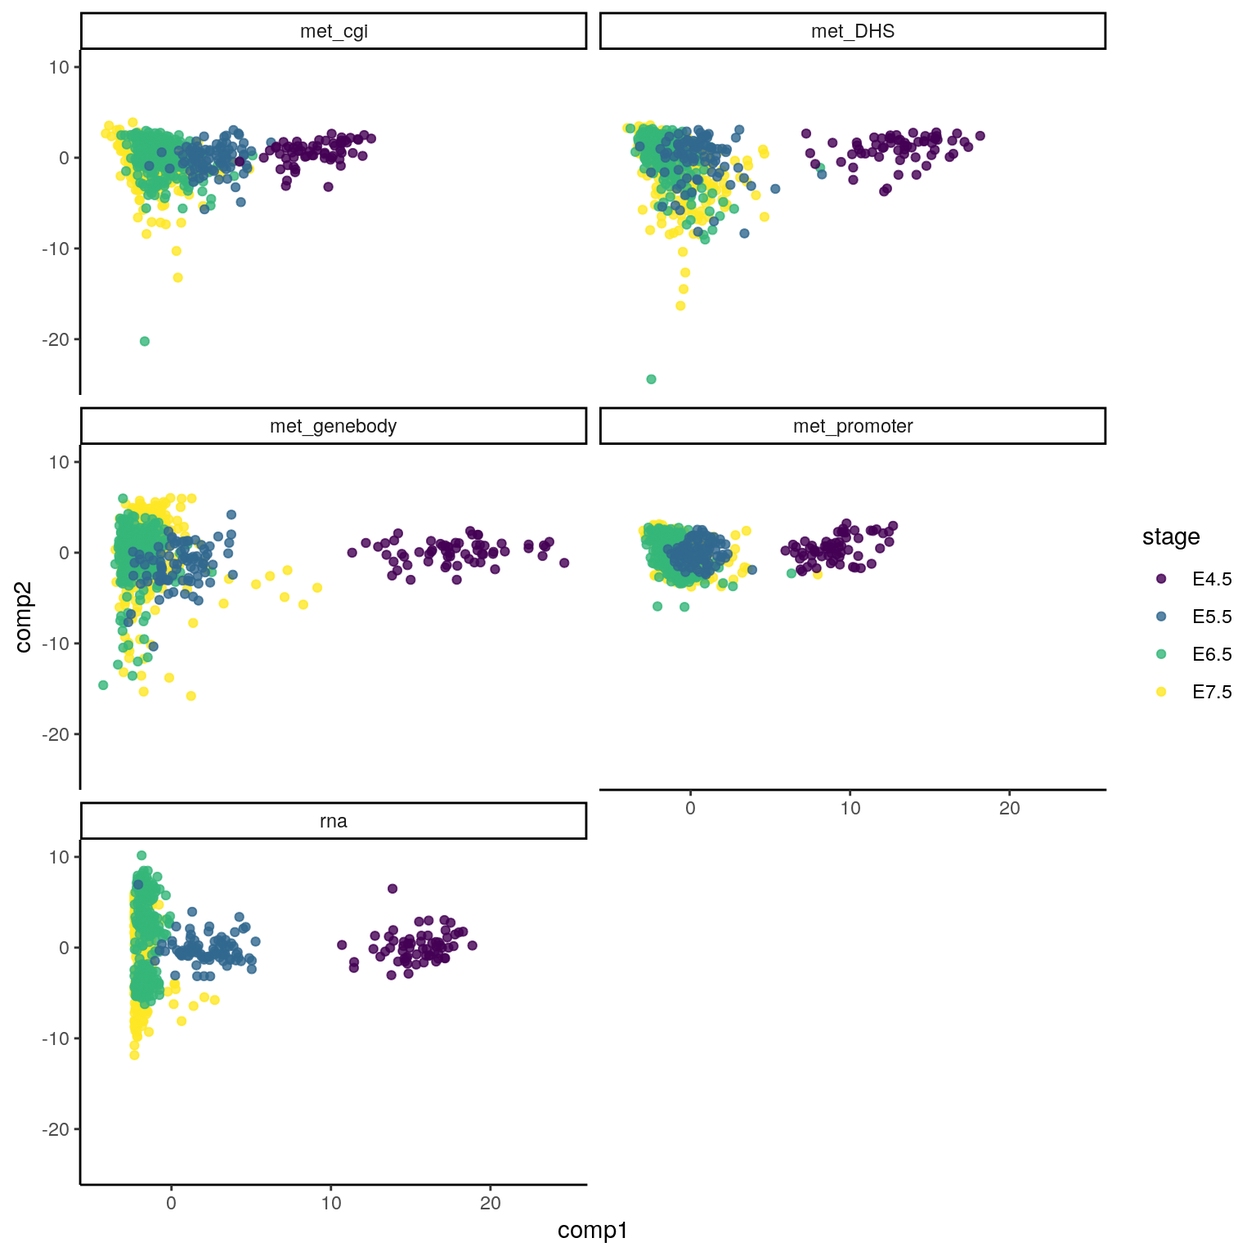
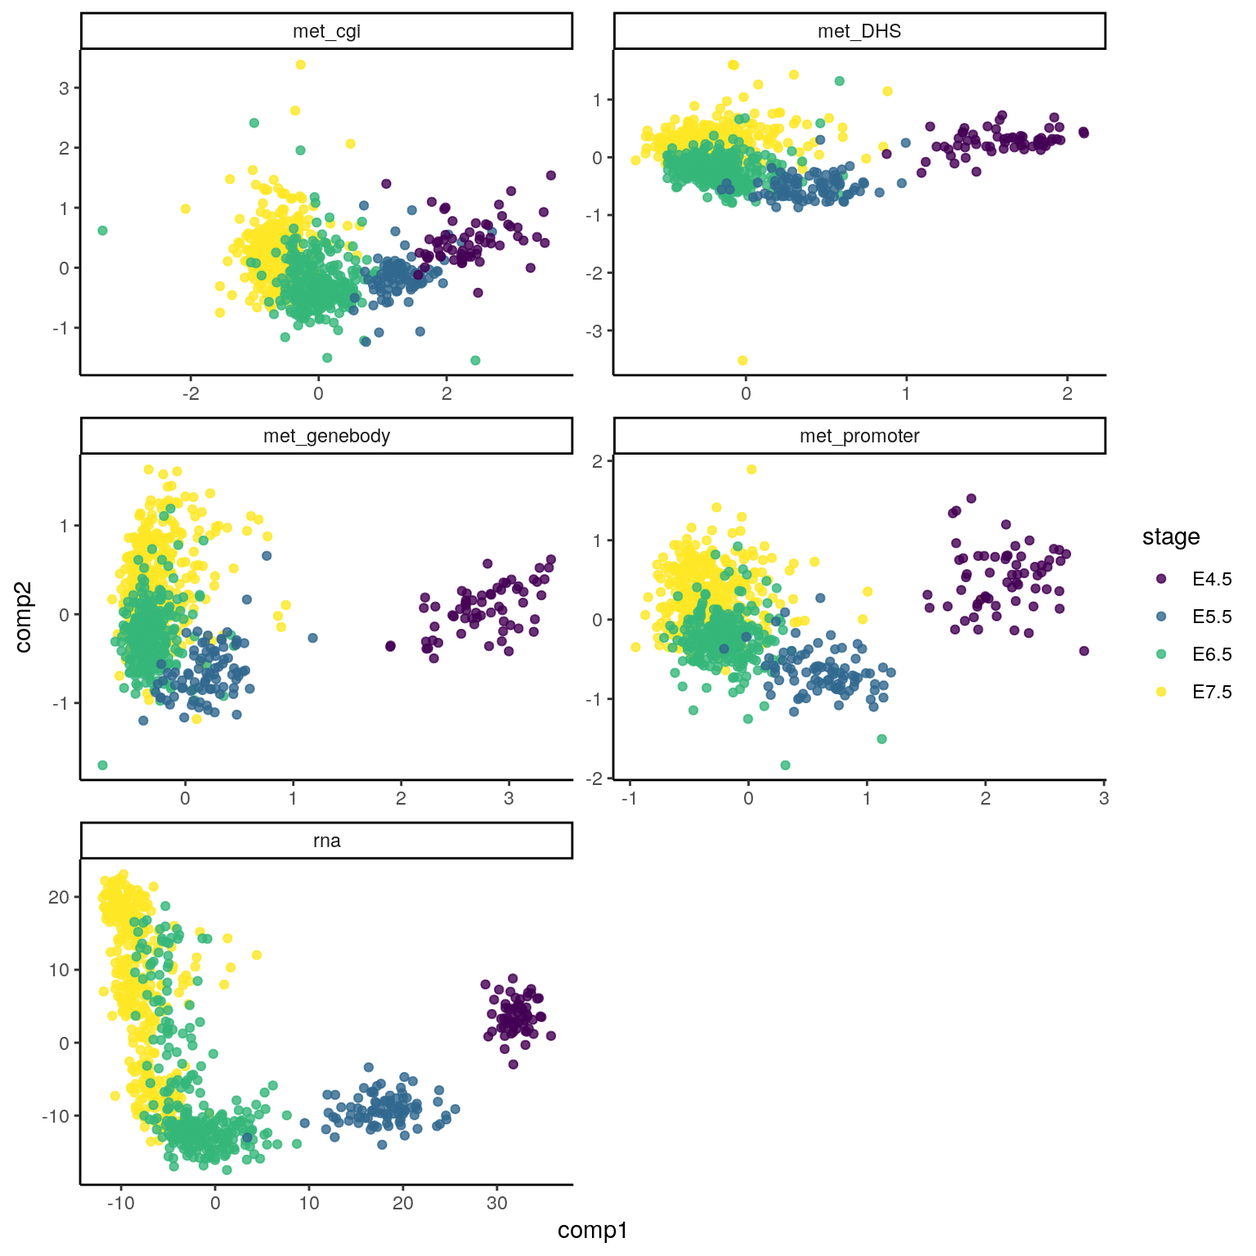
Deploying to gh-pages from  @ fc80b892d3740f3b3ab07ef93ab011c074be0f8c 🚀

diff --git a/articles/index.html b/articles/index.html
@@ -266,7 +266,8 @@
   <span class="fu"><a href="https://ggplot2.tidyverse.org/reference/ggtheme.html">theme_bw</a></span>() + <span class="fu"><a href="https://ggplot2.tidyverse.org/reference/theme.html">theme</a></span>(<span class="kw">strip.text.x</span> <span class="kw">=</span> <span class="fu"><a href="https://ggplot2.tidyverse.org/reference/element.html">element_text</a></span>(<span class="kw">size</span> <span class="kw">=</span> <span class="fl">10</span>, <span class="kw">face</span> <span class="kw">=</span> <span class="st">'bold'</span>, <span class="kw">color</span> <span class="kw">=</span> <span class="st">'purple'</span>))
 
 <span class="no">cov_plot</span></pre></body></html></div>
-<p><img src="index_files/figure-html/unnamed-chunk-12-1.png" width="768"> Density plots for methylation data show that shorter genomic regions tend to have less feature coverage. Dashed blue line indicates the average across all modalities.</p>
+<p><img src="index_files/figure-html/unnamed-chunk-12-1.png" width="768"></p>
+<p>Density plots for methylation data show that shorter genomic regions tend to have less feature coverage. Dashed blue line indicates the average across all modalities.</p>
 </div>
 </div>
 <div id="rna" class="section level1">
@@ -391,7 +392,7 @@
 <div id="pls" class="section level2">
 <h2 class="hasAnchor">
 <a href="#pls" class="anchor"></a>PLS</h2>
-<p>data dimensions overview:</p>
+<p>Data dimensions overview:</p>
 <div class="sourceCode" id="cb19"><html><body><pre class="r"><span class="co"># data dimensions</span>
 <span class="fu"><a href="https://rdrr.io/r/base/lapply.html">lapply</a></span>(<span class="fu"><a href="https://rdrr.io/pkg/MultiAssayExperiment/man/MultiAssayExperiment-methods.html">experiments</a></span>(<span class="no">gastru.mae</span>), <span class="no">dim</span>)
 <span class="co">#&gt; $rna</span>
@@ -408,7 +409,7 @@
 <span class="co">#&gt; </span>
 <span class="co">#&gt; $met_DHS</span>
 <span class="co">#&gt; [1] 6673  796</span></pre></body></html></div>
-<p>integration of all modalities with feature selection:</p>
+<p>I ntegration of all modalities with feature selection:</p>
 <!-- ```{r, eval=params$save_output, echo=params$save_output} -->
 <!-- pls_output_name <- sprintf('multimodal_spls-ncomp_%s-scale_.rds', ncomp, scale) -->
 <!-- ``` -->
@@ -416,9 +417,9 @@
 <div class="sourceCode" id="cb20"><html><body><pre class="r"><span class="co">## number of components</span>
 <span class="no">ncomp</span> <span class="kw">&lt;-</span> <span class="no">params</span>$<span class="no">pls_ncomp</span>
 <span class="co">## feature scaling</span>
-<span class="no">scale</span> <span class="kw">&lt;-</span> <span class="fl">TRUE</span></pre></body></html></div>
+<span class="no">scale</span> <span class="kw">&lt;-</span> <span class="fl">FALSE</span></pre></body></html></div>
 <div class="sourceCode" id="cb21"><html><body><pre class="r"><span class="fu"><a href="https://rdrr.io/r/base/cat.html">cat</a></span>(<span class="fu"><a href="https://rdrr.io/r/base/sprintf.html">sprintf</a></span>(<span class="st">'Running PLS with %s components performing variable selection\n'</span>, <span class="no">ncomp</span>))
-<span class="co">#&gt; Running PLS with 5 components performing variable selection</span>
+<span class="co">#&gt; Running PLS with 4 components performing variable selection</span>
 <span class="no">st</span> <span class="kw">&lt;-</span> <span class="fu"><a href="https://rdrr.io/r/base/system.time.html">system.time</a></span>({
   <span class="no">mmspls</span> <span class="kw">&lt;-</span>
     <span class="fu"><a href="https://github.com/ajabadi/BIRSBIO2020.scNMTseq.PLS/reference/multimodal_sPLS_wrapper.html">multimodal_sPLS_wrapper</a></span>(<span class="kw">mae</span> <span class="kw">=</span> <span class="no">gastru.mae</span>, <span class="kw">study_assays</span> <span class="kw">=</span> <span class="kw">NULL</span>,
@@ -430,7 +431,7 @@
 
 <span class="fu"><a href="https://rdrr.io/r/base/cat.html">cat</a></span>(<span class="st">'\nPLS run finished. Runtime: '</span>, <span class="fu">format_runtime</span>(<span class="no">st</span>), <span class="st">'\n'</span>)
 <span class="co">#&gt; </span>
-<span class="co">#&gt; PLS run finished. Runtime:  00:04:04</span></pre></body></html></div>
+<span class="co">#&gt; PLS run finished. Runtime:  00:02:32</span></pre></body></html></div>
 <div class="sourceCode" id="cb22"><html><body><pre class="r"><span class="no">plot_pls</span> <span class="kw">&lt;-</span> <span class="kw">function</span>(<span class="no">pls_obj</span>, <span class="no">stage</span>, <span class="no">legend.title</span> <span class="kw">=</span> <span class="st">'Stage'</span>, <span class="no">comp</span> <span class="kw">=</span> <span class="fu"><a href="https://rdrr.io/r/base/c.html">c</a></span>(<span class="fl">1</span>,<span class="fl">2</span>), <span class="no">col_palette</span>) {
   <span class="no">variates</span> <span class="kw">&lt;-</span> <span class="fu"><a href="https://rdrr.io/r/base/lapply.html">lapply</a></span>(<span class="no">pls_obj</span>$<span class="no">variates</span>, <span class="kw">function</span>(<span class="no">arr</span>){
     <span class="no">df</span> <span class="kw">&lt;-</span> <span class="fu"><a href="https://rdrr.io/r/base/as.data.frame.html">as.data.frame</a></span>(<span class="no">arr</span>[,<span class="no">comp</span>])
@@ -442,7 +443,7 @@
   <span class="fu"><a href="https://ggplot2.tidyverse.org/reference/ggplot.html">ggplot</a></span>(<span class="no">variates</span>) +
     <span class="fu"><a href="https://ggplot2.tidyverse.org/reference/ggtheme.html">theme_classic</a></span>() +
     <span class="fu"><a href="https://ggplot2.tidyverse.org/reference/geom_point.html">geom_point</a></span>(<span class="fu"><a href="https://ggplot2.tidyverse.org/reference/aes_.html">aes_string</a></span>(<span class="kw">x</span> <span class="kw">=</span> <span class="no">axes</span>[<span class="fl">1</span>], <span class="kw">y</span> <span class="kw">=</span> <span class="no">axes</span>[<span class="fl">2</span>], <span class="kw">col</span> <span class="kw">=</span> <span class="st">'stage'</span>), <span class="kw">alpha</span> <span class="kw">=</span> <span class="no">params</span>$<span class="no">ggplot_alph</span>) +
-    <span class="fu"><a href="https://ggplot2.tidyverse.org/reference/facet_wrap.html">facet_wrap</a></span>(<span class="no">.</span>~<span class="no">Modality</span>, <span class="kw">ncol</span> <span class="kw">=</span> <span class="fl">2</span>) +
+    <span class="fu"><a href="https://ggplot2.tidyverse.org/reference/facet_wrap.html">facet_wrap</a></span>(<span class="no">.</span>~<span class="no">Modality</span>, <span class="kw">ncol</span> <span class="kw">=</span> <span class="fl">2</span>, <span class="kw">scales</span> <span class="kw">=</span> <span class="st">"free"</span>) +
     <span class="fu"><a href="https://ggplot2.tidyverse.org/reference/scale_manual.html">scale_color_manual</a></span>(<span class="kw">values</span> <span class="kw">=</span> <span class="no">col_palette</span>)
 }</pre></body></html></div>
 </div>
@@ -454,10 +455,10 @@
 <p><img src="index_files/figure-html/unnamed-chunk-28-1.png" width="768"></p>
 <p>The derived latent components which seek to maximise the sum of concordant variation b/w rna and other modalities show phenotypic relevance in terms of the embryonic stages. It indicates coordinated changes across the methylomes associated with the distinct transcriptional states of cells in the regions of study during gastrulation.</p>
 </div>
-<div id="umap-using-pls-components" class="section level2">
+<div id="umap-using-4-pls-components" class="section level2">
 <h2 class="hasAnchor">
-<a href="#umap-using-pls-components" class="anchor"></a>UMAP using PLS components</h2>
-<p>add PLS embeddings to SCE so scater::runUMAP can be applied:</p>
+<a href="#umap-using-4-pls-components" class="anchor"></a>UMAP using 4 PLS components</h2>
+<p>Add PLS embeddings to SCE so UMAP is applied using <code><a href="https://rdrr.io/pkg/scater/man/runUMAP.html">scater::runUMAP</a></code>:</p>
 <div class="sourceCode" id="cb24"><html><body><pre class="r"><span class="kw">for</span> (<span class="no">block</span> <span class="kw">in</span> <span class="fu"><a href="https://rdrr.io/r/base/names.html">names</a></span>(<span class="no">mmspls</span>$<span class="no">variates</span>)) {
   <span class="no">variates</span> <span class="kw">&lt;-</span> <span class="no">mmspls</span>$<span class="no">variates</span>[<span class="no">block</span>]
   <span class="no">dimred.name</span> <span class="kw">&lt;-</span> <span class="fu"><a href="https://rdrr.io/r/base/paste.html">paste0</a></span>(<span class="st">'PLS_'</span>, <span class="no">block</span>)
@@ -477,25 +478,45 @@
   <span class="no">umap_df</span> <span class="kw">&lt;-</span> <span class="fu"><a href="https://rdrr.io/r/base/as.data.frame.html">as.data.frame</a></span>(<span class="fu">reducedDim</span>(<span class="no">rna.sce.matching</span>, <span class="no">umap.name</span>))
   <span class="fu"><a href="https://rdrr.io/r/base/colnames.html">colnames</a></span>(<span class="no">umap_df</span>) <span class="kw">&lt;-</span> <span class="fu"><a href="https://rdrr.io/r/base/paste.html">paste0</a></span>(<span class="st">'UMAP_'</span>, <span class="fu"><a href="https://rdrr.io/r/base/seq.html">seq_along</a></span>(<span class="no">umap_df</span>))
   <span class="no">umap_df</span>$<span class="no">stage</span> <span class="kw">&lt;-</span> <span class="no">gastru.mae</span>$<span class="no">stage</span>
+  <span class="no">umap_df</span>$<span class="no">lineage</span> <span class="kw">&lt;-</span> <span class="no">gastru.mae</span>$<span class="no">lineage</span>
   <span class="no">all_pls_umap</span><span class="kw">[[</span><span class="no">block</span>]] <span class="kw">&lt;-</span> <span class="no">umap_df</span>
 }
 <span class="no">all_pls_umap</span> <span class="kw">&lt;-</span> <span class="fu"><a href="https://github.com/ajabadi/BIRSBIO2020.scNMTseq.PLS/reference/utils.html">rbindListWithNames</a></span>(<span class="no">all_pls_umap</span>, <span class="kw">new_col</span> <span class="kw">=</span> <span class="st">'Modality'</span>)</pre></body></html></div>
 <p>Plot UMAP:</p>
-<div class="sourceCode" id="cb26"><html><body><pre class="r"><span class="no">axes</span> <span class="kw">&lt;-</span> <span class="fu"><a href="https://rdrr.io/r/base/colnames.html">colnames</a></span>(<span class="no">all_pls_umap</span>)[<span class="fl">1</span>:<span class="fl">2</span>]
-  <span class="fu"><a href="https://ggplot2.tidyverse.org/reference/ggplot.html">ggplot</a></span>(<span class="no">all_pls_umap</span>) +
-    <span class="fu"><a href="https://ggplot2.tidyverse.org/reference/ggtheme.html">theme_classic</a></span>() +
-    <span class="fu"><a href="https://ggplot2.tidyverse.org/reference/geom_point.html">geom_point</a></span>(<span class="fu"><a href="https://ggplot2.tidyverse.org/reference/aes_.html">aes_string</a></span>(<span class="kw">x</span> <span class="kw">=</span> <span class="no">axes</span>[<span class="fl">1</span>], <span class="kw">y</span> <span class="kw">=</span> <span class="no">axes</span>[<span class="fl">2</span>], <span class="kw">col</span> <span class="kw">=</span> <span class="st">'stage'</span>), <span class="kw">alpha</span> <span class="kw">=</span> <span class="no">params</span>$<span class="no">ggplot_alph</span>) +
-    <span class="fu"><a href="https://ggplot2.tidyverse.org/reference/facet_wrap.html">facet_wrap</a></span>(<span class="no">.</span>~<span class="no">Modality</span>, <span class="kw">ncol</span> <span class="kw">=</span> <span class="fl">2</span>) +
-    <span class="fu"><a href="https://ggplot2.tidyverse.org/reference/scale_manual.html">scale_color_manual</a></span>(<span class="kw">values</span> <span class="kw">=</span> <span class="no">col_palette</span>)</pre></body></html></div>
-<p><img src="index_files/figure-html/unnamed-chunk-31-1.png" width="768"></p>
-<p>UMAP projection using 5 PLS components for each modality shows the distinct states of early stage cells on transcriptional and DNA methylation level. These states are coordinated across both molecular levels. The projection also demonstrates the transition from mid-stage to late-stage for single cells across different views.</p>
+<div class="sourceCode" id="cb26"><html><body><pre class="r"><span class="co">## ------------- stage</span>
+<span class="no">axes</span> <span class="kw">&lt;-</span> <span class="fu"><a href="https://rdrr.io/r/base/colnames.html">colnames</a></span>(<span class="no">all_pls_umap</span>)[<span class="fl">1</span>:<span class="fl">2</span>]
+<span class="no">gg_stage</span> <span class="kw">&lt;-</span> <span class="fu"><a href="https://ggplot2.tidyverse.org/reference/ggplot.html">ggplot</a></span>(<span class="no">all_pls_umap</span>) +
+  <span class="fu"><a href="https://ggplot2.tidyverse.org/reference/ggtheme.html">theme_classic</a></span>() +
+  <span class="fu"><a href="https://ggplot2.tidyverse.org/reference/geom_point.html">geom_point</a></span>(<span class="fu"><a href="https://ggplot2.tidyverse.org/reference/aes_.html">aes_string</a></span>(<span class="kw">x</span> <span class="kw">=</span> <span class="no">axes</span>[<span class="fl">1</span>], <span class="kw">y</span> <span class="kw">=</span> <span class="no">axes</span>[<span class="fl">2</span>], <span class="kw">col</span> <span class="kw">=</span> <span class="st">'stage'</span>), <span class="kw">alpha</span> <span class="kw">=</span> <span class="no">params</span>$<span class="no">ggplot_alph</span>) +
+  <span class="fu"><a href="https://ggplot2.tidyverse.org/reference/facet_wrap.html">facet_wrap</a></span>(<span class="no">.</span>~<span class="no">Modality</span>, <span class="kw">ncol</span> <span class="kw">=</span> <span class="fl">2</span>, <span class="kw">scales</span> <span class="kw">=</span> <span class="st">'free'</span>) +
+  <span class="fu"><a href="https://ggplot2.tidyverse.org/reference/scale_manual.html">scale_color_manual</a></span>(<span class="kw">values</span> <span class="kw">=</span> <span class="no">col_palette</span>) +
+  <span class="fu"><a href="https://ggplot2.tidyverse.org/reference/labs.html">labs</a></span>(<span class="kw">col</span> <span class="kw">=</span> <span class="st">'Stage'</span>)
+
+<span class="co">## ------------- lineage</span>
+<span class="co"># lineage_col_palette &lt;- viridisLite::viridis(n=length(unique(unique(gastru.mae$lineage))))</span>
+<span class="no">lineage_col_palette</span> <span class="kw">&lt;-</span> <span class="fu"><a href="https://rdrr.io/r/base/c.html">c</a></span>(<span class="st">"#440154FF"</span>, <span class="st">"#3B528BFF"</span>, <span class="st">"#21908CFF"</span>, <span class="st">"#5DC863FF"</span>, <span class="st">"#FDE725FF"</span>)
+<span class="fu"><a href="https://rdrr.io/r/base/names.html">names</a></span>(<span class="no">lineage_col_palette</span>) <span class="kw">&lt;-</span> <span class="fu"><a href="https://rdrr.io/r/base/unique.html">unique</a></span>(<span class="no">gastru.mae</span>$<span class="no">lineage</span>)
+<span class="no">axes</span> <span class="kw">&lt;-</span> <span class="fu"><a href="https://rdrr.io/r/base/colnames.html">colnames</a></span>(<span class="no">all_pls_umap</span>)[<span class="fl">1</span>:<span class="fl">2</span>]
+<span class="no">gg_lineage</span> <span class="kw">&lt;-</span> <span class="fu"><a href="https://ggplot2.tidyverse.org/reference/ggplot.html">ggplot</a></span>(<span class="no">all_pls_umap</span>) +
+  <span class="fu"><a href="https://ggplot2.tidyverse.org/reference/ggtheme.html">theme_classic</a></span>() +
+  <span class="fu"><a href="https://ggplot2.tidyverse.org/reference/geom_point.html">geom_point</a></span>(<span class="fu"><a href="https://ggplot2.tidyverse.org/reference/aes_.html">aes_string</a></span>(<span class="kw">x</span> <span class="kw">=</span> <span class="no">axes</span>[<span class="fl">1</span>], <span class="kw">y</span> <span class="kw">=</span> <span class="no">axes</span>[<span class="fl">2</span>], <span class="kw">col</span> <span class="kw">=</span> <span class="st">'lineage'</span>), <span class="kw">alpha</span> <span class="kw">=</span> <span class="no">params</span>$<span class="no">ggplot_alph</span>) +
+  <span class="fu"><a href="https://ggplot2.tidyverse.org/reference/facet_wrap.html">facet_wrap</a></span>(<span class="no">.</span>~<span class="no">Modality</span>, <span class="kw">ncol</span> <span class="kw">=</span> <span class="fl">2</span>, <span class="kw">scales</span> <span class="kw">=</span> <span class="st">'free'</span>) +
+  <span class="fu"><a href="https://ggplot2.tidyverse.org/reference/scale_manual.html">scale_color_manual</a></span>(<span class="kw">values</span> <span class="kw">=</span> <span class="no">lineage_col_palette</span>) +
+  <span class="fu"><a href="https://ggplot2.tidyverse.org/reference/labs.html">labs</a></span>(<span class="kw">col</span> <span class="kw">=</span> <span class="st">'Putative Lineage'</span>)</pre></body></html></div>
+<div class="sourceCode" id="cb27"><html><body><pre class="r"><span class="no">gg_stage_lineage</span> <span class="kw">&lt;-</span> <span class="kw pkg">gridExtra</span><span class="kw ns">::</span><span class="fu"><a href="https://rdrr.io/pkg/gridExtra/man/arrangeGrob.html">grid.arrange</a></span>(<span class="no">gg_stage</span> + <span class="fu"><a href="https://ggplot2.tidyverse.org/reference/labs.html">labs</a></span>(<span class="kw">x</span> <span class="kw">=</span> <span class="st">''</span>),
+                        <span class="fu"><a href="https://ggplot2.tidyverse.org/reference/ggplot.html">ggplot</a></span>() + <span class="fu"><a href="https://ggplot2.tidyverse.org/reference/ggtheme.html">theme_minimal</a></span>() + <span class="fu"><a href="https://ggplot2.tidyverse.org/reference/labs.html">labs</a></span>(<span class="kw">x</span> <span class="kw">=</span> <span class="st">'UMAP_1'</span>),
+                        <span class="no">gg_lineage</span> + <span class="fu"><a href="https://ggplot2.tidyverse.org/reference/labs.html">labs</a></span>(<span class="kw">y</span> <span class="kw">=</span> <span class="st">''</span>, <span class="kw">x</span> <span class="kw">=</span> <span class="st">''</span>),
+                        <span class="kw">widths</span> <span class="kw">=</span> <span class="fu"><a href="https://rdrr.io/r/base/c.html">c</a></span>(<span class="fl">10</span>,<span class="fl">1</span>,<span class="fl">10</span>),
+                        <span class="kw">nrow</span><span class="kw">=</span><span class="fl">1</span>)</pre></body></html></div>
+<p><img src="index_files/figure-html/unnamed-chunk-32-1.png" width="1152"></p>
+<p>UMAP projection using 4 PLS components for each modality shows the distinct states cells from each stage on transcriptional and DNA methylation level in the projected space. This suggests that the molecular changes during mouse gastrulation are coordinated across the study modalities. The projection also highlights the different patterns of transcriptional variation among different putative lineages in late-stage cells.</p>
 </div>
 </div>
 <div id="concordance-with-rna" class="section level1">
 <h1 class="hasAnchor">
 <a href="#concordance-with-rna" class="anchor"></a>concordance with RNA</h1>
 <p>Here we calculate the correlations between components from gene expression and different methylome modalities:</p>
-<div class="sourceCode" id="cb27"><html><body><pre class="r"><span class="co">## For a pls object which includes pls cell embeddings from a computed latent space</span>
+<div class="sourceCode" id="cb28"><html><body><pre class="r"><span class="co">## For a pls object which includes pls cell embeddings from a computed latent space</span>
 <span class="co">## where covariance with rna is maximal, calculate the correlation b/w rna embeddings</span>
 <span class="co">## and those of a given modality's (per component and average) as a measure of concordant variation with rna</span>
 <span class="no">concordance</span> <span class="kw">&lt;-</span> <span class="kw">function</span>(<span class="no">pls_obj</span>, <span class="no">comp</span> <span class="kw">=</span> <span class="fl">1</span>) {
@@ -526,15 +547,15 @@
   <span class="fu"><a href="https://ggplot2.tidyverse.org/reference/ggplot.html">ggplot</a></span>(<span class="no">cor_with_y</span>, <span class="fu"><a href="https://ggplot2.tidyverse.org/reference/aes.html">aes</a></span>(<span class="kw">x</span> <span class="kw">=</span> <span class="no">Modality</span>, <span class="kw">y</span> <span class="kw">=</span> <span class="no">Concordance</span>)) + <span class="fu"><a href="https://ggplot2.tidyverse.org/reference/geom_bar.html">geom_col</a></span>(<span class="fu"><a href="https://ggplot2.tidyverse.org/reference/aes.html">aes</a></span>(<span class="kw">fill</span> <span class="kw">=</span> <span class="no">Component</span>), <span class="kw">position</span> <span class="kw">=</span> <span class="st">'dodge2'</span>) + <span class="fu"><a href="https://ggplot2.tidyverse.org/reference/ggtheme.html">theme_classic</a></span>() +
     <span class="fu"><a href="https://ggplot2.tidyverse.org/reference/labs.html">labs</a></span>(<span class="kw">y</span> <span class="kw">=</span> <span class="fu"><a href="https://rdrr.io/r/base/sprintf.html">sprintf</a></span>(<span class="st">'Correlation with RNA (comp %s) '</span>, <span class="fu"><a href="https://rdrr.io/r/base/paste.html">paste</a></span>(<span class="no">comp</span>, <span class="kw">collapse</span> <span class="kw">=</span> <span class="st">', '</span>)), <span class="kw">x</span> <span class="kw">=</span> <span class="st">''</span>, <span class="kw">fill</span> <span class="kw">=</span> <span class="st">''</span>) + <span class="fu"><a href="https://ggplot2.tidyverse.org/reference/lims.html">ylim</a></span>(<span class="fu"><a href="https://rdrr.io/r/base/c.html">c</a></span>(<span class="fl">0</span>, <span class="fl">1</span>)) + <span class="fu"><a href="https://ggplot2.tidyverse.org/reference/theme.html">theme</a></span>(<span class="kw">axis.text.x</span> <span class="kw">=</span> <span class="fu"><a href="https://ggplot2.tidyverse.org/reference/element.html">element_text</a></span>(<span class="kw">angle</span> <span class="kw">=</span> <span class="fl">45</span>, <span class="kw">vjust</span> <span class="kw">=</span> <span class="fl">0.8</span>, <span class="kw">hjust</span><span class="kw">=</span><span class="fl">1</span>))
 }</pre></body></html></div>
-<div class="sourceCode" id="cb28"><html><body><pre class="r"><span class="fu">concordance</span>(<span class="kw">pls_obj</span> <span class="kw">=</span> <span class="no">mmspls</span>, <span class="kw">comp</span> <span class="kw">=</span> <span class="fu"><a href="https://rdrr.io/r/base/c.html">c</a></span>(<span class="fl">1</span>, <span class="fl">2</span>))
+<div class="sourceCode" id="cb29"><html><body><pre class="r"><span class="fu">concordance</span>(<span class="kw">pls_obj</span> <span class="kw">=</span> <span class="no">mmspls</span>, <span class="kw">comp</span> <span class="kw">=</span> <span class="fu"><a href="https://rdrr.io/r/base/c.html">c</a></span>(<span class="fl">1</span>, <span class="fl">2</span>))
 <span class="co">#&gt; </span>
 <span class="co">#&gt; </span>
 <span class="co">#&gt; |            | met_genebody| met_promoter| met_cgi| met_DHS|</span>
 <span class="co">#&gt; |:-----------|------------:|------------:|-------:|-------:|</span>
-<span class="co">#&gt; |Component 1 |         0.95|         0.92|    0.91|    0.92|</span>
-<span class="co">#&gt; |Component 2 |         0.46|         0.59|    0.49|    0.39|</span>
-<span class="co">#&gt; |mean        |         0.71|         0.75|    0.70|    0.66|</span></pre></body></html></div>
-<p><img src="index_files/figure-html/unnamed-chunk-34-1.png" width="768"></p>
+<span class="co">#&gt; |Component 1 |         0.82|         0.89|    0.91|    0.86|</span>
+<span class="co">#&gt; |Component 2 |         0.48|         0.65|    0.57|    0.50|</span>
+<span class="co">#&gt; |mean        |         0.65|         0.77|    0.74|    0.68|</span></pre></body></html></div>
+<p><img src="index_files/figure-html/unnamed-chunk-35-1.png" width="768"></p>
 </div>
 <div id="conclusion" class="section level1">
 <h1 class="hasAnchor">
